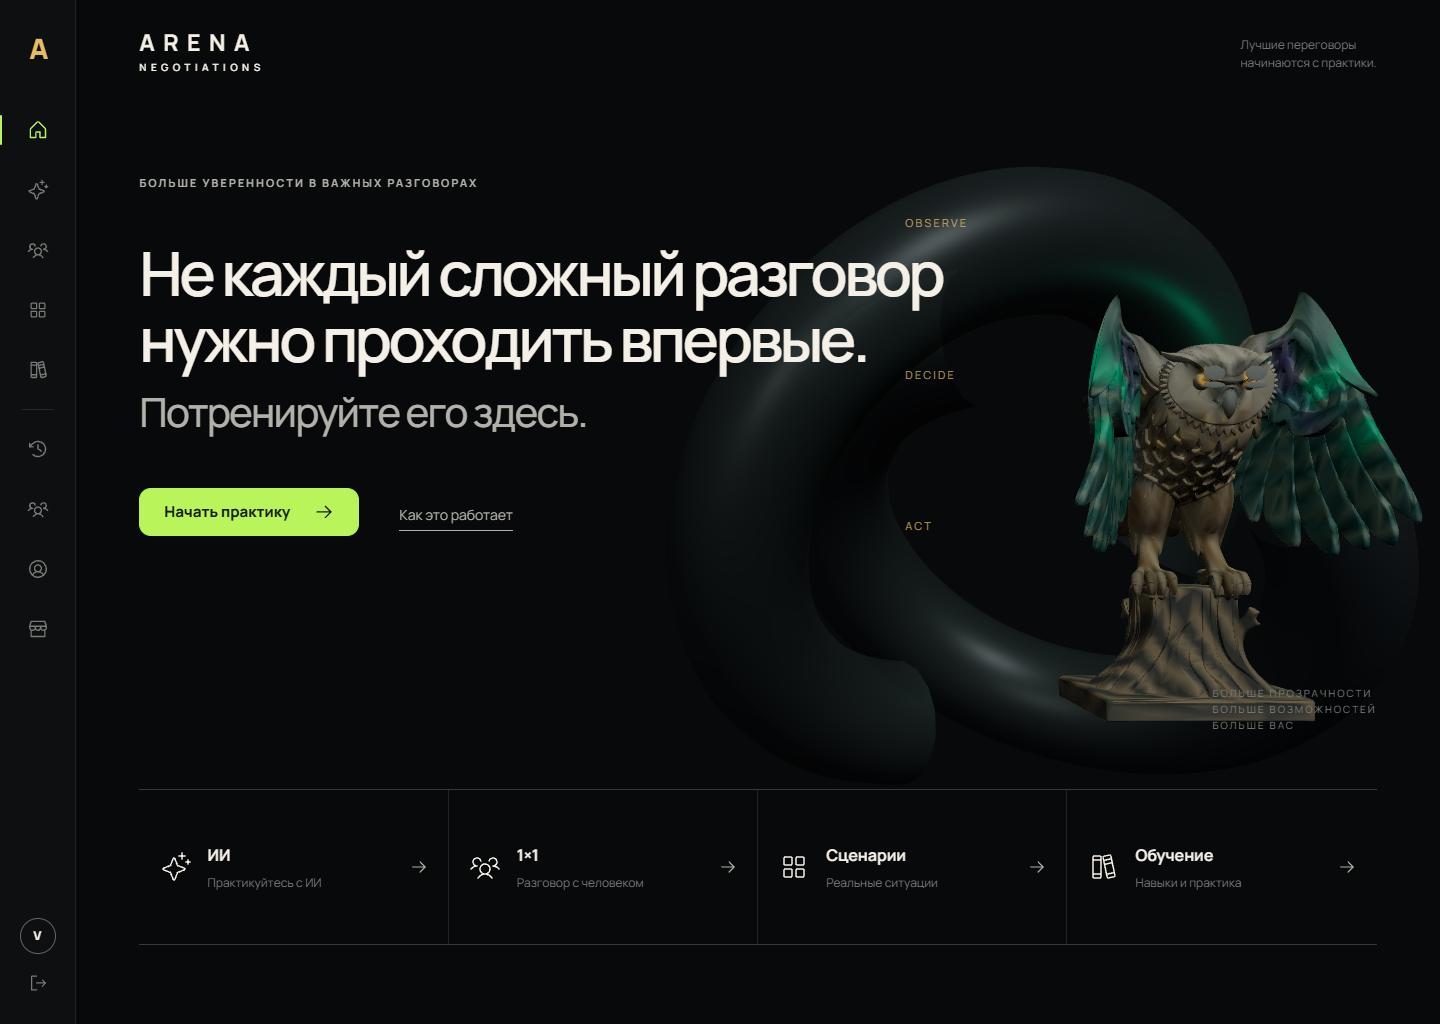
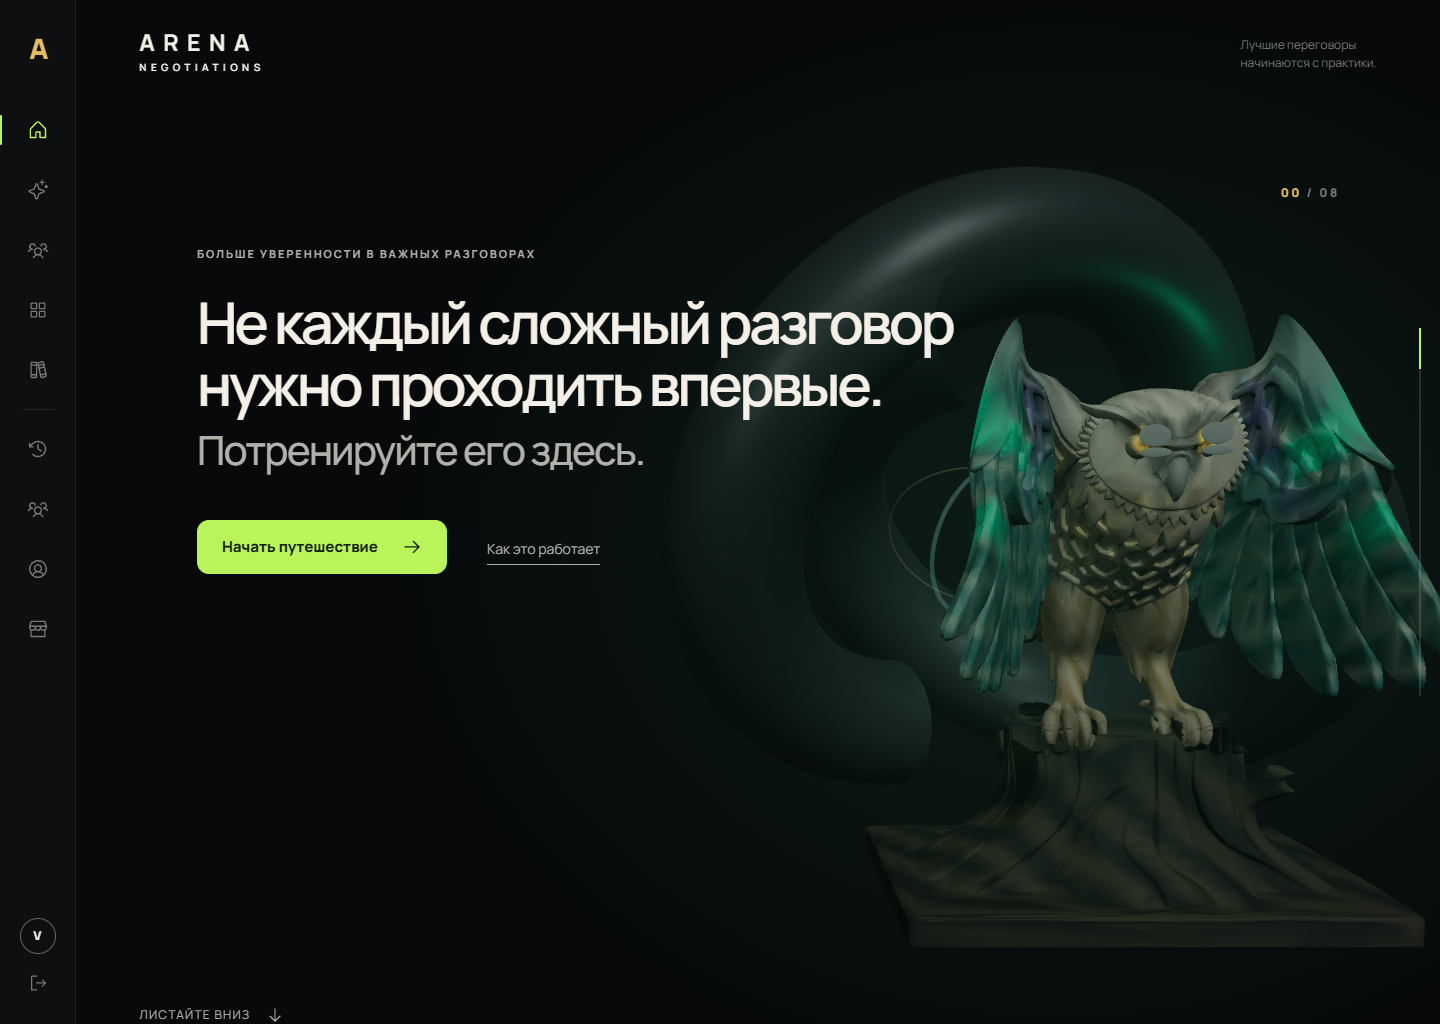
Document continuous Home world browser QA

diff --git a/docs/design/home-world-qa.md b/docs/design/home-world-qa.md
@@ -1,0 +1,30 @@
+# Continuous Home World — QA, 2026-09-25
+
+The current implementation is an interactive foundation for the new Home concept, not final visual or animation sign-off.
+
+## Verified
+
+- One long Home route with Hero, AI, 1×1, Scenarios, Learning, History, Friends, Profile and a closing chapter. The existing product pages remain reachable from chapter CTAs.
+- The left rail and mobile navigation move within Home, update their active marker from scroll, support direct `/#section` entry, and return from another route to the chosen Home chapter. Programmatic travel is capped at 1.5 s and yields to manual wheel/touch/keyboard input.
+- One persistent WebGL canvas and one owl rig are used across chapters and route changes. The stump is attached to Hero only; the former page-specific perches were removed.
+- Scroll intent drives the owl target; the rig catches up independently. Fast scrollbar movement from Hero to Profile was within 0.33 world units of the current target after 1.2 s in local Chrome, with no frame-to-frame position jump over 0.33 world units. Flight wings continue moving when scrolling stops. Reverse travel has a different lateral arc.
+- Procedural 3D scene proxies enter early and overlap: AI orb, paired participant cores, scenario totems, learning constellation, history ribbon, friends network and profile helix. A single luminous spatial thread interpolates its shape between those worlds. Only nearby chapters are rendered; far proxies are hidden.
+- Reduced-motion direct entry skips long travel. Desktop and mobile navigation, Hero return, AI route entry, and route-to-Home navigation passed the browser check with no page/console errors.
+- The rig verification still passes: 36 joints, four clips, real wing tracks, stable head, separated stump/feet, blink morphs. Eleven seconds of seated observation showed no raised-wing bind-pose flash.
+- A capped physical-feather particle can shed rarely in flight and continue drifting across a section boundary. It is disabled for reduced motion and limited to three feathers per mounted session.
+
+## Browser evidence
+
+[Hero](qa/home-world-hero.png) · [AI](qa/home-world-ai.png) · [1×1](qa/home-world-rooms.png) · [Scenarios](qa/home-world-scenarios.png) · [Learning](qa/home-world-learning.png) · [History](qa/home-world-history.png) · [Friends](qa/home-world-friends.png) · [Profile](qa/home-world-profile.png) · [Hero return](qa/home-world-return.png) · [Mobile Hero](qa/home-world-mobile-hero.png) · [Mobile AI](qa/home-world-mobile-ai.png)
+
+Run locally: `cd frontend && node scripts/verify-home-world.mjs`. This script requires a running Vite server at `127.0.0.1:5173` and local Chrome. Unit checks: `node --test src/experience/*.test.mjs src/experience/owl/*.test.mjs`.
+
+## Not yet at master-spec acceptance
+
+- The user-provided STL is a fused, stylized sculpture with wings modeled open. Even with the rig's held rest pose, the Hero silhouette does **not** show anatomically fully folded wings or photoreal feathers. The enlarged, darkened stump is the same source sculpt, not a final premium wood asset. A production character and environment art pass remains necessary.
+- The scene objects are procedural proxies. Their shared thread morphs, but the major sculptures do not yet transform into one another at authored cinematic quality. The Negotiation Core is still the earlier torus approximation.
+- There are four authored rig clips, not the full requested bank/climb/descent/slow/fast set. Procedural motion varies by section and speed, but dedicated animation blending, hand-polished turn and landing variants, independent layered feather cards, convincing feather aerodynamics and the daily scroll-delivery sequence remain outstanding.
+- General DOM forbidden-zone avoidance, spline/zone visualization in Owl Lab, every-route motion QA, low-end device profiling, and a fully authored camera/occlusion system are not complete. The 1×1 owl position was adjusted after screenshot review to avoid its headline and CTA.
+- The production bundle still warns about large JS chunks. Further route code-splitting and asset streaming should precede low-end production rollout.
+
+Result: **functional continuous-world prototype; not full master-spec or character-art sign-off.**

diff --git a/docs/design/design-qa.md b/docs/design/design-qa.md
@@ -1,5 +1,7 @@
 # Arena visual QA — 2026-09-25
 
+Historical QA for the previous Home composition. See the [current continuous-world QA](home-world-qa.md).
+
 Reference: [selected concept](home-reference.png). Browser captures: [desktop comparison](qa/home-comparison.png), [mobile Home](qa/home-mobile.png), [AI entry](qa/ai-entry-desktop.png), [transition](qa/ai-transition-early.png), [mobile More](qa/more-mobile.png), [STL angles](qa/mesh-angles.png). The detailed current QA gate is at [project root](../../design-qa.md).
 
 ## Verified

diff --git a/design-qa.md b/design-qa.md
@@ -1,5 +1,7 @@
 # Arena Negotiations — design QA
 
+Historical QA for the previous Home composition. The current continuous-world review is [docs/design/home-world-qa.md](docs/design/home-world-qa.md).
+
 Date: 2026-09-25.
 
 ## Evidence and normalization
